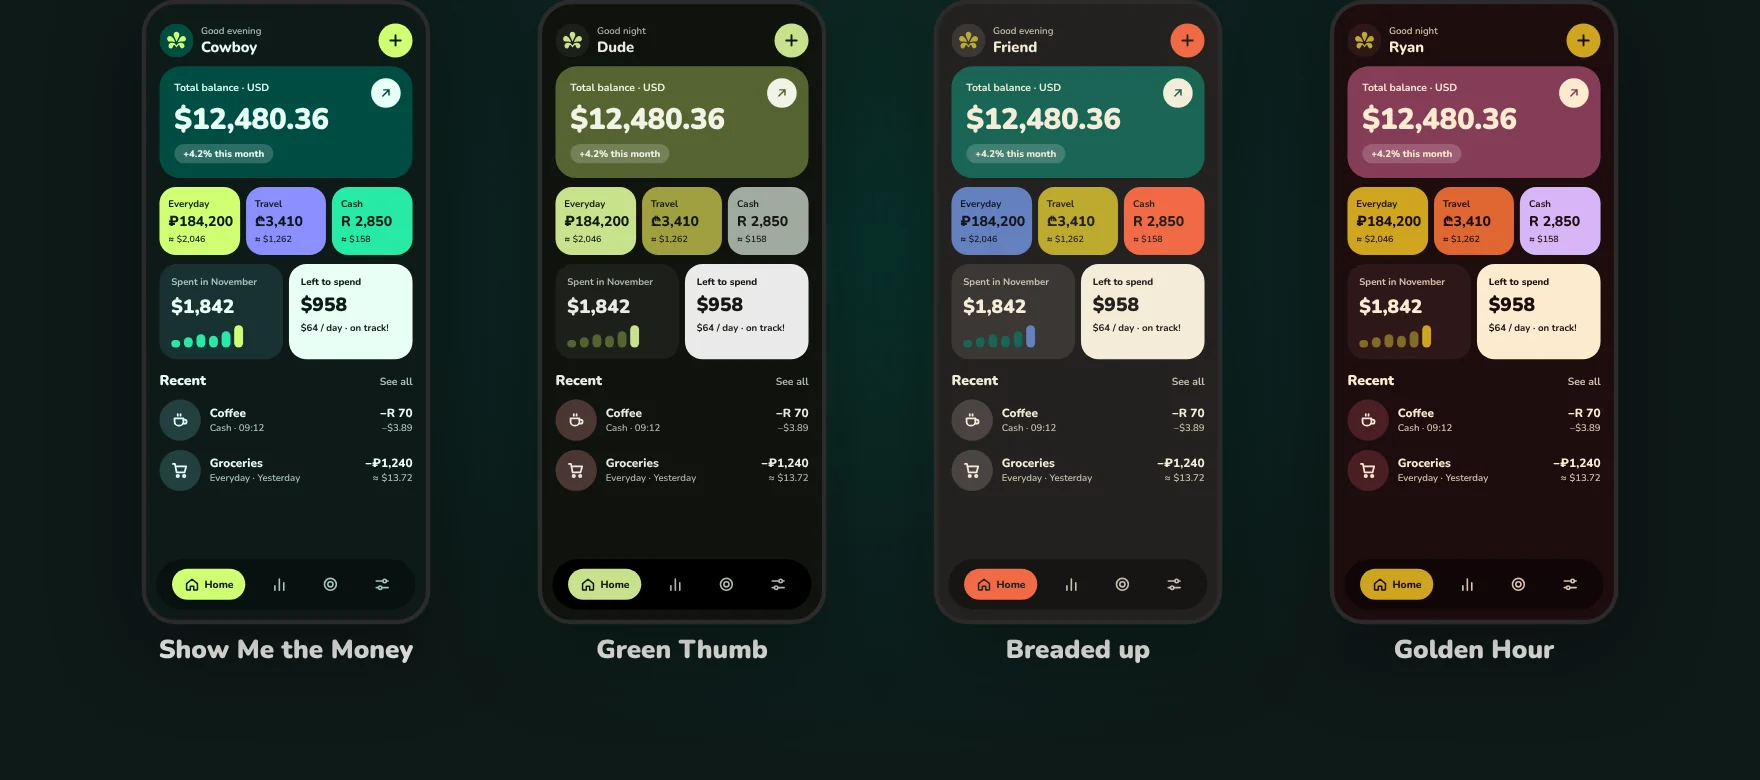
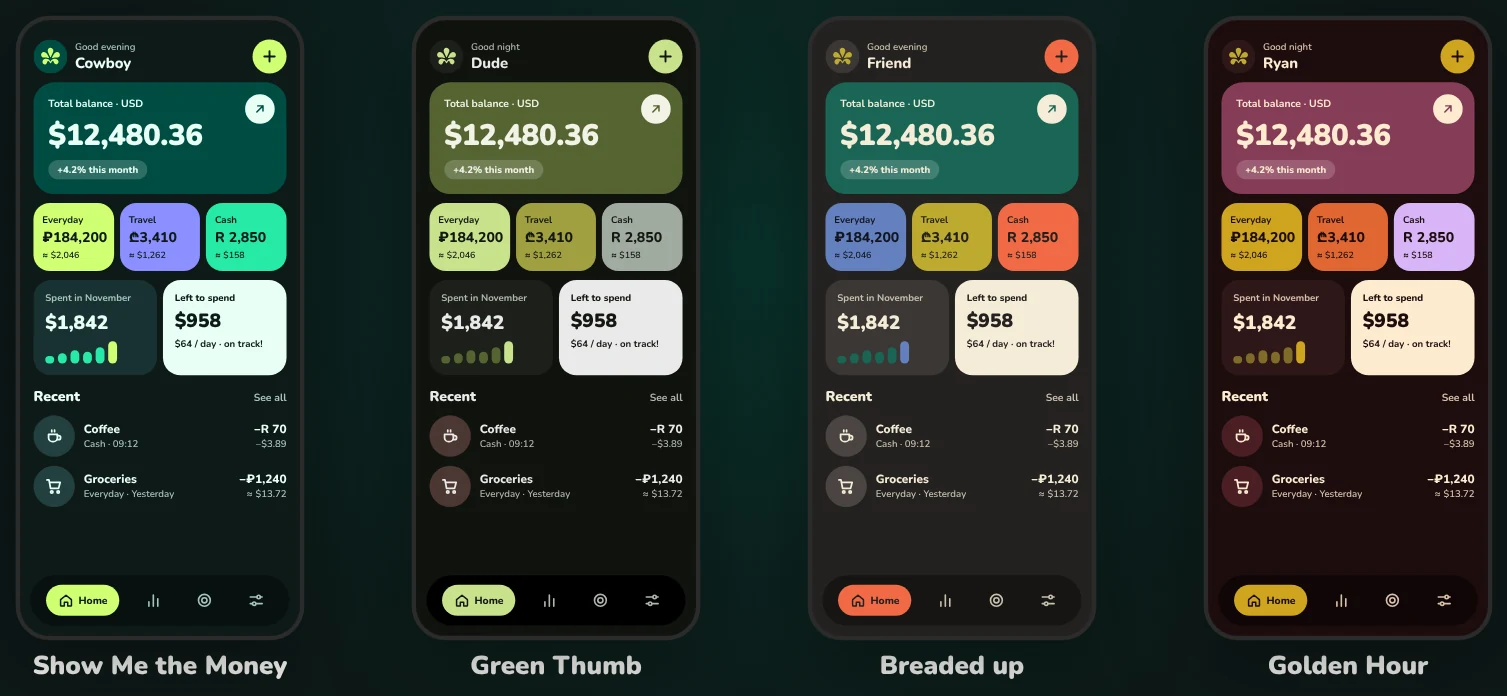
Tighter layout, even heading line-height, App Store badge, padded palette blocks
Claude-Session: https://claude.ai/code/session_01RmvxFhnHP2R8hU4NXGQQyM

diff --git a/style.css b/style.css
@@ -18,7 +18,7 @@ img{max-width:100%;display:block}
 .serif{font-family:Fraunces,Georgia,serif;font-weight:700;font-variation-settings:"SOFT" 100,"WONK" 1}
 
 /* nav */
-.nav{display:flex;align-items:center;justify-content:space-between;padding:22px 0}
+.nav{display:flex;align-items:center;justify-content:space-between;padding:18px 0}
 .brand{display:flex;align-items:center;gap:12px;color:var(--text);font-size:26px}
 .brand:hover{text-decoration:none}
 .brand img{width:40px;height:40px;border-radius:50%}
@@ -27,28 +27,34 @@ img{max-width:100%;display:block}
 .nav-links a:hover{background:var(--card);color:var(--text);text-decoration:none}
 
 /* hero */
-.hero{position:relative;display:grid;grid-template-columns:1fr 1.1fr;gap:40px;align-items:center;padding:48px 0 72px}
+.hero{position:relative;display:grid;grid-template-columns:1fr 1.1fr;gap:32px;align-items:center;padding:20px 0 32px}
 .hero::before{content:"";position:absolute;right:-10%;top:-10%;width:760px;height:760px;border-radius:50%;
   background:radial-gradient(closest-side,rgba(0,110,92,.35),rgba(0,110,92,0));z-index:-1}
 .kicker{display:inline-block;color:var(--lime);font-weight:800;font-size:14px;letter-spacing:2px;text-transform:uppercase}
-h1{font-size:clamp(44px,6.4vw,84px);line-height:1.02;letter-spacing:-1px;margin:14px 0 18px}
-.lead{font-size:20px;color:var(--muted);max-width:520px;margin:0 0 28px}
+h1,h2{line-height:1.14;letter-spacing:-0.5px}
+h1{font-size:clamp(42px,6vw,78px);margin:10px 0 14px}
+.lead{font-size:19px;color:var(--muted);max-width:520px;margin:0 0 22px}
 .badge{display:inline-flex;align-items:center;gap:10px;background:var(--lime);color:#13211F;font-weight:800;padding:14px 24px;border-radius:999px;font-size:17px}
 .badge.soon{background:transparent;color:var(--text);border:2px solid var(--line)}
 .badge.soon b{color:var(--lime)}
+.badges{display:flex;flex-wrap:wrap;gap:12px}
+.palette{border-radius:var(--radius);padding:28px 24px 20px;margin-top:16px}
+.palette.night{background:#0D1817;border:1px solid var(--line)}
+.palette.day{background:#EEECE6}
+.palette img{margin:0 auto;max-width:1060px;width:100%}
 
 /* shots */
 .shot{border-radius:var(--radius);overflow:hidden;background:var(--bg2)}
 .shot img{width:100%;height:auto}
 
 /* feature rows */
-section{padding:56px 0}
-.feature{display:grid;grid-template-columns:1fr 1fr;gap:48px;align-items:center}
+section{padding:32px 0}
+.feature{display:grid;grid-template-columns:1fr 1fr;gap:36px;align-items:center}
 .feature.flip .text{order:2}
-.feature h2,.center h2{font-size:clamp(34px,4.4vw,56px);line-height:1.05;margin:12px 0 16px}
+.feature h2,.center h2{font-size:clamp(32px,4.2vw,52px);margin:8px 0 12px}
 .feature p{color:var(--muted);font-size:19px;margin:0}
 .center{text-align:center}
-.center .lead{margin:0 auto 32px}
+.center .lead{margin:0 auto 22px}
 
 /* cards */
 .cards{display:grid;grid-template-columns:repeat(3,1fr);gap:18px}
@@ -58,21 +64,21 @@ section{padding:56px 0}
 .card p{margin:0;color:var(--muted)}
 
 /* creator */
-.creator{background:var(--card);border-radius:var(--radius);padding:44px;display:grid;grid-template-columns:auto 1fr;gap:32px;align-items:center}
+.creator{background:var(--card);border-radius:var(--radius);padding:34px;display:grid;grid-template-columns:auto 1fr;gap:32px;align-items:center}
 .creator img{width:96px;height:96px;border-radius:50%}
 .creator h2{font-size:34px;margin:0 0 10px}
 .creator p{color:var(--muted);margin:0 0 14px;font-size:18px}
 
 /* footer */
-footer{border-top:1px solid var(--line);margin-top:56px;padding:32px 0 48px;color:var(--muted);font-size:15px}
+footer{border-top:1px solid var(--line);margin-top:32px;padding:24px 0 36px;color:var(--muted);font-size:15px}
 footer .wrap{display:flex;justify-content:space-between;gap:16px;flex-wrap:wrap}
 footer a{color:var(--muted)}
 footer nav{display:flex;gap:18px}
 
 /* doc pages */
 .doc{max-width:760px;margin:0 auto;padding:24px 24px 0}
-.doc h1{font-size:clamp(38px,5vw,60px)}
-.doc h2{font-family:Nunito,system-ui,sans-serif;font-weight:800;font-size:23px;margin:40px 0 10px}
+.doc h1{font-size:clamp(38px,5vw,58px)}
+.doc h2{font-family:Nunito,system-ui,sans-serif;font-weight:800;font-size:23px;line-height:1.3;margin:30px 0 8px}
 .doc p,.doc li{color:#D6DEDB;font-size:17.5px}
 .doc ul{padding-left:22px}
 .doc li{margin:6px 0}

diff --git a/index.html b/index.html
@@ -27,7 +27,7 @@
         <span class="kicker">Money, but friendly</span>
         <h1 class="serif">Grow money,<br>not worries.</h1>
         <p class="lead">A calm, beautiful way to track spending in every currency. Log what you spend, see it in your main currency, and watch your goals bloom.</p>
-        <span class="badge soon">Coming soon to <b>Google Play</b></span>
+        <div class="badges"><span class="badge soon">Coming soon to <b>Google Play</b></span><span class="badge soon">Coming soon to <b>App Store</b></span></div>
       </div>
       <div class="shot"><img src="img/shot1.webp" alt="Marigold home screen and new transaction screen" width="1080" height="1000"></div>
     </section>
@@ -54,8 +54,8 @@
       <span class="kicker">Pick your vibe</span>
       <h2 class="serif">Four palettes.<br>Day and night.</h2>
       <p class="lead">Show Me the Money, Green Thumb, Breaded up and Golden Hour — each with a cozy night look and a bright day look.</p>
-      <div class="shot"><img src="img/shot4.webp" alt="Four night palettes" width="1760" height="780" loading="lazy"></div>
-      <div class="shot" style="margin-top:18px"><img src="img/shot5.webp" alt="Four day palettes" width="1760" height="780" loading="lazy"></div>
+      <div class="palette night"><img src="img/shot4.webp" alt="Four night palettes" width="1507" height="696" loading="lazy"></div>
+      <div class="palette day"><img src="img/shot5.webp" alt="Four day palettes" width="1507" height="696" loading="lazy"></div>
     </section>
 
     <section>
